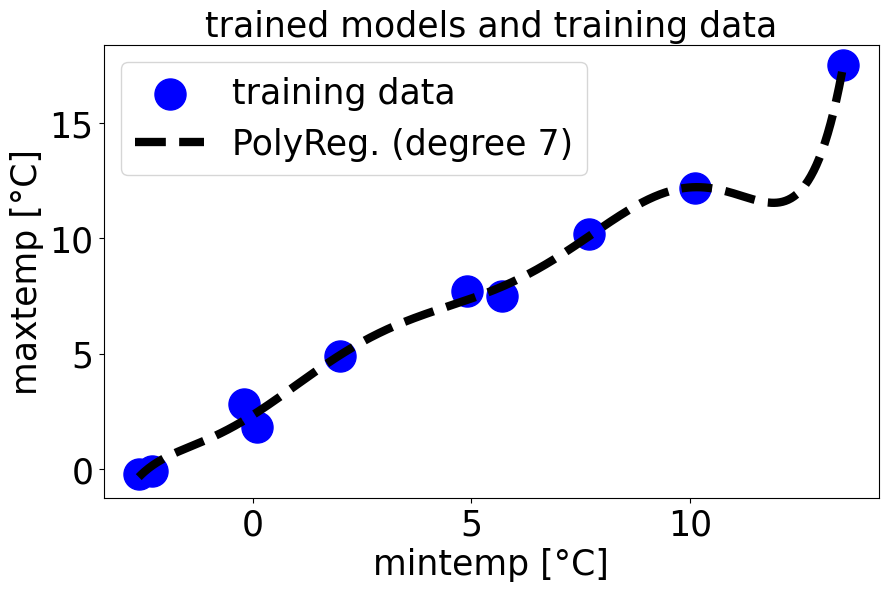
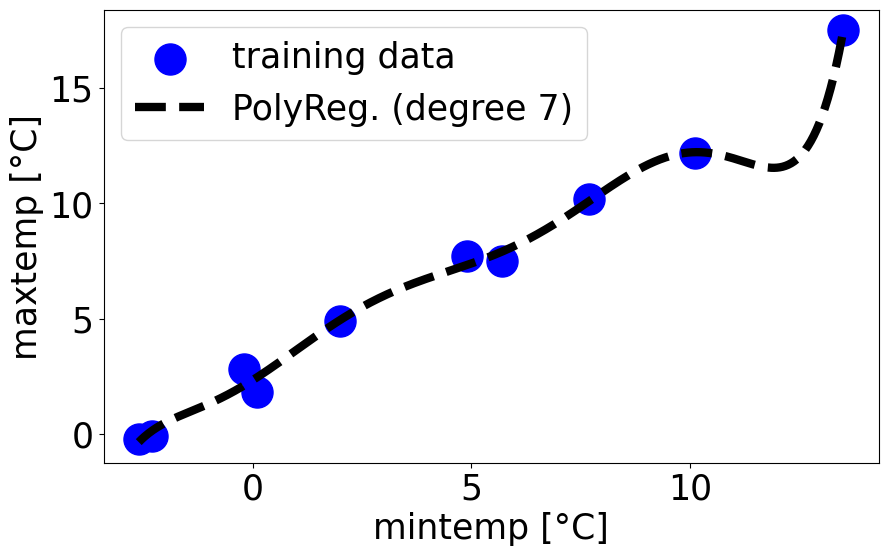
update

Changed region(s): [[0.0608, 0.0, 1.0, 0.9784], [0.0, 0.1223, 0.1216, 0.6727]]

diff --git a/assets/DemoExplain/ExplainableML.py b/assets/DemoExplain/ExplainableML.py
@@ -71,7 +71,7 @@ plt.plot(min_temp_range, predicted_max_temp_poly, color='black',linestyle='--', 
 # Add axis labels, title, and legend
 plt.xlabel("mintemp [°C]")
 plt.ylabel("maxtemp [°C]")
-plt.title("trained models and training data")
+#plt.title("trained models and training data")
 plt.legend()
 # Save the plot before showing it
 plt.savefig("dtpolyreg.png", dpi=100, bbox_inches='tight')
